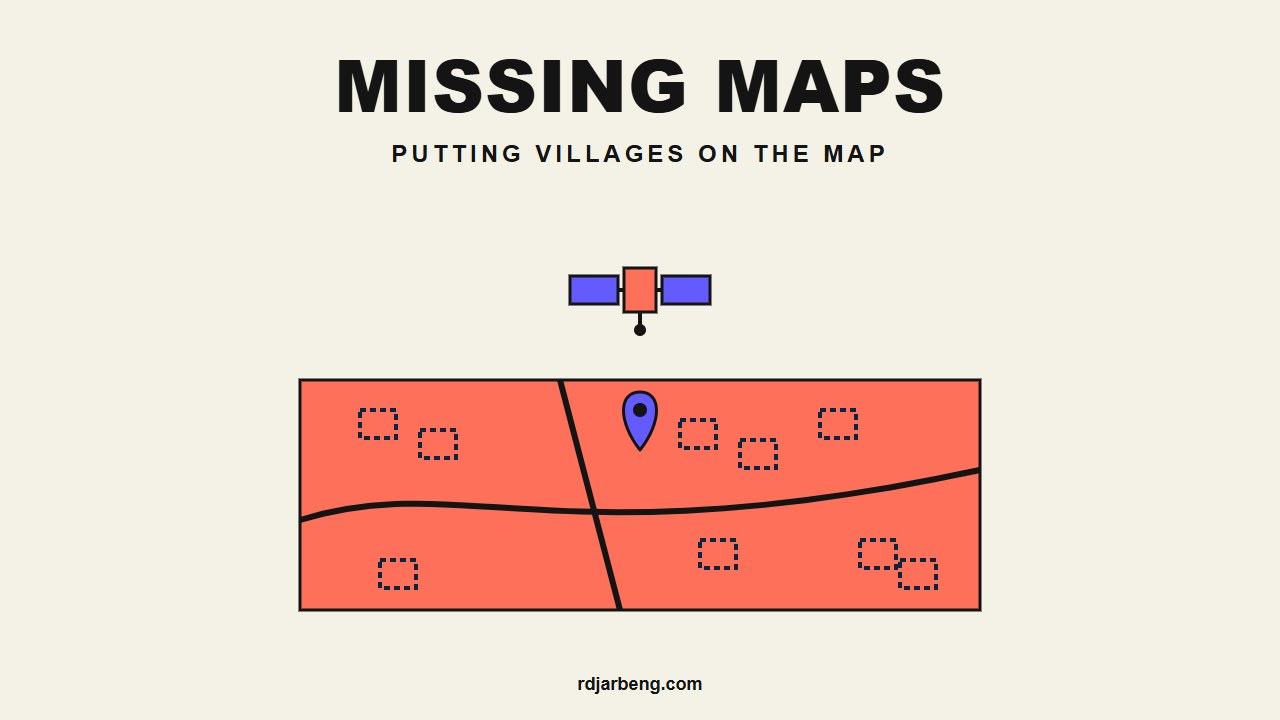
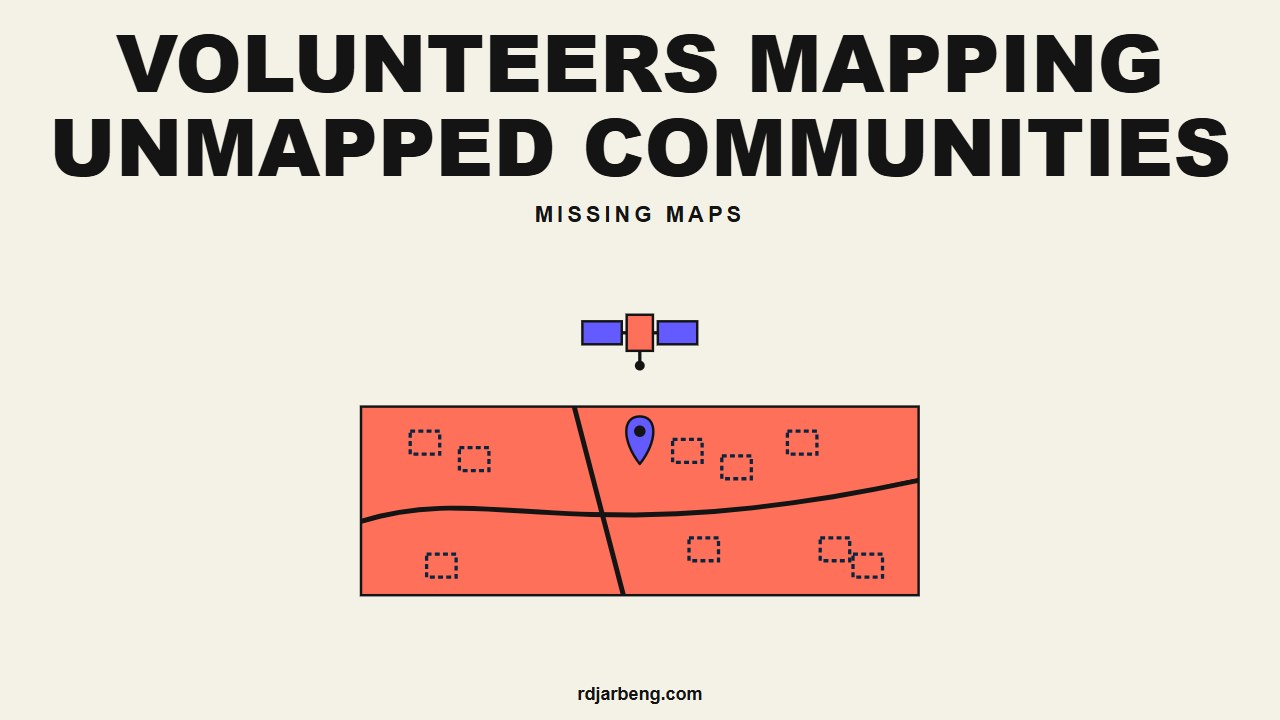
Organisation draft covers: plain-language headlines per the cover workflow

diff --git a/scripts/diagrams/covers/eo_org_covers.py b/scripts/diagrams/covers/eo_org_covers.py
@@ -131,47 +131,55 @@ def art_smos():
 
 # name -> (headline, hook, illustration, alt text, post file stem)
 COVERS = {
-    "digital_earth_africa": ("DIGITAL EARTH AFRICA", "FREE SATELLITE DATA FOR THE CONTINENT", art_dea,
-                             "A satellite above a grid of map tiles in green and sand with a dark band of water, under the headline Digital Earth Africa",
+    "digital_earth_africa": ("FREE SATELLITE DATA FOR AFRICA", "DIGITAL EARTH AFRICA", art_dea,
+                             "A satellite above a grid of map tiles in green and sand with a dark band of water, under the headline 'Free satellite data for africa' and the name Digital Earth Africa",
                              "2026-11-27-digital-earth-africa-free-satellite-data-for-africa"),
-    "global_forest_watch": ("GLOBAL FOREST WATCH", "TRACKING TREE LOSS FROM SPACE", art_gfw,
-                            "A satellite above a row of trees with a cleared gap of stumps marked by alert pins, under the headline Global Forest Watch",
+    "global_forest_watch": ("SPOTTING FOREST LOSS FROM SPACE", "GLOBAL FOREST WATCH", art_gfw,
+                            "A satellite above a row of trees with a cleared gap of stumps marked by alert pins, under the headline 'Spotting forest loss from space' and the name Global Forest Watch",
                             "2026-11-27-global-forest-watch-tracking-tree-loss-from-space"),
-    "global_urban_footprint": ("GLOBAL URBAN FOOTPRINT", "MAPPING CITIES FROM SPACE", art_guf,
-                               "A satellite sending radar waves down to a skyline of city blocks, under the headline Global Urban Footprint",
+    "global_urban_footprint": ("MAPPING EVERY CITY FROM ORBIT", "DLR GLOBAL URBAN FOOTPRINT", art_guf,
+                               "A satellite sending radar waves down to a skyline of city blocks, under the headline 'Mapping every city from orbit' and the name Dlr Global Urban Footprint",
                                "2026-11-27-global-urban-footprint-mapping-cities-from-space"),
-    "missing_maps": ("MISSING MAPS", "PUTTING VILLAGES ON THE MAP", art_missing_maps,
-                     "A map with roads and dashed outlines of buildings being traced, a location pin and a satellite above, under the headline Missing Maps",
+    "missing_maps": ("VOLUNTEERS MAPPING UNMAPPED COMMUNITIES", "MISSING MAPS", art_missing_maps,
+                     "A map with roads and dashed outlines of buildings being traced, a location pin and a satellite above, under the headline 'Volunteers mapping unmapped communities' and the name Missing Maps",
                      "2026-11-27-missing-maps-volunteer-mapping-for-humanitarian-response"),
-    "nasa_arset": ("NASA ARSET", "FREE TRAINING IN SATELLITE DATA", art_arset,
-                   "A laptop showing a satellite map, a satellite beside it and a graduation cap, under the headline NASA ARSET",
+    "nasa_arset": ("LEARN TO USE SATELLITE DATA, FREE", "NASA ARSET TRAINING", art_arset,
+                   "A laptop showing a satellite map, a satellite beside it and a graduation cap, under the headline 'Learn to use satellite data, free' and the name Nasa Arset Training",
                    "2026-11-27-nasa-arset-free-remote-sensing-training"),
-    "nasa_black_marble": ("NASA BLACK MARBLE", "NIGHT LIGHTS FROM SPACE", art_black_marble,
-                          "A satellite above a dark landscape dotted with clusters of city lights, under the headline NASA Black Marble",
+    "nasa_black_marble": ("NIGHT LIGHTS REVEAL POWER CUTS", "NASA BLACK MARBLE", art_black_marble,
+                          "A satellite above a dark landscape dotted with clusters of city lights, under the headline 'Night lights reveal power cuts' and the name Nasa Black Marble",
                           "2026-11-27-nasa-black-marble-night-lights-from-space"),
-    "nasa_harvest": ("NASA HARVEST", "SATELLITES FOR FOOD SECURITY", art_harvest,
-                     "A satellite looking down on rows of crop fields, under the headline NASA Harvest",
+    "nasa_harvest": ("SATELLITES THAT WATCH CROPS GROW", "NASA HARVEST", art_harvest,
+                     "A satellite looking down on rows of crop fields, under the headline 'Satellites that watch crops grow' and the name Nasa Harvest",
                      "2026-11-27-nasa-harvest-satellite-data-for-food-security"),
-    "servir": ("SERVIR", "SATELLITE DATA FOR DEVELOPMENT", art_servir,
-               "A satellite linked to a rain cloud falling on a row of fields, under the headline SERVIR",
+    "servir": ("SATELLITE DATA FOR DROUGHTS AND FLOODS", "SERVIR", art_servir,
+               "A satellite linked to a rain cloud falling on a row of fields, under the headline 'Satellite data for droughts and floods' and the name Servir",
                "2026-11-27-servir-satellite-data-for-development"),
-    "smos": ("SMOS", "MEASURING SOIL MOISTURE FROM SPACE", art_smos,
-             "A satellite above a cross-section of soil layers holding water drops, with seedlings on top, under the headline SMOS",
+    "smos": ("MEASURING SOIL WATER FROM SPACE", "ESA SMOS MISSION", art_smos,
+             "A satellite above a cross-section of soil layers holding water drops, with seedlings on top, under the headline 'Measuring soil water from space' and the name Esa Smos Mission",
              "2026-11-27-smos-measuring-soil-moisture-from-space"),
 }
 
 
 def cover(headline, hook, art):
-    size = min(72, int(1180 / (0.74 * len(headline))))
+    # Headline in two balanced lines so it stays at least 64px (workflow rule); the hook is the
+    # organisation's name in smaller type below it.
+    words = headline.split()
+    best = min(range(1, len(words)), key=lambda i: abs(len(" ".join(words[:i])) - len(" ".join(words[i:])))) if len(words) > 1 else 1
+    lines = [" ".join(words[:best]), " ".join(words[best:])] if len(words) > 1 else [headline]
+    size = max(64, min(80, int(1180 / (0.72 * max(len(l) for l in lines)))))
+    y1 = 92 if len(lines) == 2 else 112
+    tspans = "".join(f'<tspan x="640" dy="{0 if i == 0 else size + 4}">{l}</tspan>' for i, l in enumerate(lines))
+    hook_y = y1 + (size + 4) * (len(lines) - 1) + 46
     return f'''<svg xmlns="http://www.w3.org/2000/svg" viewBox="0 0 1280 720" width="1280" height="720">
   <!-- Generated by scripts/diagrams/covers/eo_org_covers.py. Palette per cover (COVER_PALETTE); all text #141414. -->
   <rect width="1280" height="720" fill="{PAPER}"/>
   <g fill="{INK}" font-family="'Arial Black', 'Helvetica Neue', Impact, sans-serif" text-anchor="middle">
-    <text x="640" y="112" font-size="{size}" font-weight="900" letter-spacing="1">{headline}</text>
-    <text x="640" y="162" font-size="24" font-weight="700" letter-spacing="4" font-family="Arial, Helvetica, sans-serif">{hook}</text>
+    <text x="640" y="{y1}" font-size="{size}" font-weight="900">{tspans}</text>
+    <text x="640" y="{hook_y}" font-size="22" font-weight="700" letter-spacing="4" font-family="Arial, Helvetica, sans-serif">{hook}</text>
   </g>
-  {art()}
-  <text x="640" y="690" font-family="Arial, Helvetica, sans-serif" font-size="18" font-weight="600" fill="{INK}" text-anchor="middle">rdjarbeng.com</text>
+  <g transform="translate(115 95) scale(0.82)">{art()}</g>
+  <text x="640" y="700" font-family="Arial, Helvetica, sans-serif" font-size="18" font-weight="600" fill="{INK}" text-anchor="middle">rdjarbeng.com</text>
 </svg>
 '''
 

diff --git a/_posts/2026-11-27-global-forest-watch-tracking-tree-loss-from-space.md b/_posts/2026-11-27-global-forest-watch-tracking-tree-loss-from-space.md
@@ -12,7 +12,7 @@ key_points:
   - "Community groups in Cameroon used near real time alerts to track clearing in the Mengamé Gorilla Sanctuary."
   - "In Kenya, the Mara Elephant Project uses GLAD deforestation alerts and fire alerts to watch forests around the Maasai Mara."
 image: /assets/images/posts/covers/global_forest_watch_cover.jpg
-image_alt: "A satellite above a row of trees with a cleared gap of stumps marked by alert pins, under the headline Global Forest Watch"
+image_alt: "A satellite above a row of trees with a cleared gap of stumps marked by alert pins, under the headline 'Spotting forest loss from space' and the name Global Forest Watch"
 content_type: explainer
 ai_assistance:
   - drafting
@@ -21,7 +21,7 @@ layout: post
 
 If you want to know whether forest near you is being cleared, you need information that is up to date. [Global Forest Watch](https://www.globalforestwatch.org/) puts satellite images and forest alerts online, so anyone can see where clearing is happening. Alerts are warnings that appear when satellite images show a possible change, such as trees being removed.
 
-![A satellite above a row of trees with a cleared gap of stumps marked by alert pins, under the headline Global Forest Watch](/assets/images/posts/covers/global_forest_watch_cover.jpg)
+![A satellite above a row of trees with a cleared gap of stumps marked by alert pins, under the headline 'Spotting forest loss from space' and the name Global Forest Watch](/assets/images/posts/covers/global_forest_watch_cover.jpg)
 
 The [World Resources Institute](https://www.globalforestwatch.org/about/) established the service in 1997 and launched its interactive online platform in 2014. The service was [renamed Global Nature Watch in 2026](https://www.globalnaturewatch.org/blog/data-and-tools/gfw-now-global-nature-watch/). According to the renaming announcement, nothing changes for users except the name. Saved areas, subscriptions, alerts and saved links keep working.
 

diff --git a/_posts/2026-11-27-nasa-arset-free-remote-sensing-training.md b/_posts/2026-11-27-nasa-arset-free-remote-sensing-training.md
@@ -12,7 +12,7 @@ key_points:
   - "Online trainings have no fee, and past slides, Q&A transcripts and homework are posted for review."
   - "A 2024 Cape Town workshop and a Ghanaian student's planned water quality study show how the training is used in Africa."
 image: /assets/images/posts/covers/nasa_arset_cover.jpg
-image_alt: "A laptop showing a satellite map, a satellite beside it and a graduation cap, under the headline NASA ARSET"
+image_alt: "A laptop showing a satellite map, a satellite beside it and a graduation cap, under the headline 'Learn to use satellite data, free' and the name Nasa Arset Training"
 content_type: explainer
 ai_assistance:
   - drafting
@@ -21,7 +21,7 @@ layout: post
 
 Free satellite data only helps if you know how to read it. Turning images of a flood, a dry farm or a growing town into information takes training. [NASA's Applied Remote Sensing Training Program](https://www.earthdata.nasa.gov/data/projects/arset), known as ARSET, teaches these skills. Its online trainings have no course fee.
 
-![A laptop showing a satellite map, a satellite beside it and a graduation cap, under the headline NASA ARSET](/assets/images/posts/covers/nasa_arset_cover.jpg)
+![A laptop showing a satellite map, a satellite beside it and a graduation cap, under the headline 'Learn to use satellite data, free' and the name Nasa Arset Training](/assets/images/posts/covers/nasa_arset_cover.jpg)
 
 [Remote sensing](https://www.earthdata.nasa.gov/learn/trainings/fundamentals-remote-sensing) is the science of measuring Earth from satellites and other sensors. A sensor is an instrument that measures light or other energy. ARSET says its trainings build skills for air quality, public health, agriculture, disasters, ecological conservation, water resource management, climate resilience and wildland fires. Its [training list](https://www.earthdata.nasa.gov/data/projects/arset/learn) can be filtered by topic, training level, training type and language.
 

diff --git a/_posts/2026-11-27-nasa-harvest-satellite-data-for-food-security.md b/_posts/2026-11-27-nasa-harvest-satellite-data-for-food-security.md
@@ -12,7 +12,7 @@ key_points:
   - "In Kenya, the ADAPT-Kenya project is building a government data system that produces in-season agricultural data products."
   - "ADAPT-Kenya plans early warning systems for droughts, floods and other natural disasters."
 image: /assets/images/posts/covers/nasa_harvest_cover.jpg
-image_alt: "A satellite looking down on rows of crop fields, under the headline NASA Harvest"
+image_alt: "A satellite looking down on rows of crop fields, under the headline 'Satellites that watch crops grow' and the name Nasa Harvest"
 content_type: explainer
 ai_assistance:
   - drafting
@@ -21,7 +21,7 @@ layout: post
 
 When crops fail, governments and aid groups need to know quickly, while there is still time to act. [NASA Harvest](https://www.nasaharvest.org/) is NASA's global food supply and agriculture consortium, meaning a group of organisations working together. It was [commissioned by NASA in 2017](https://www.nasaharvest.org/about-us). It brings together agriculture experts and remote sensing experts, meaning people who measure the land from satellites. They work with farmers, agribusinesses, economists, humanitarian organisations, governments and technology developers. Its management hub is at the University of Maryland's [Department of Geographical Sciences](https://www.nasaharvest.org/about-us).
 
-![A satellite looking down on rows of crop fields, under the headline NASA Harvest](/assets/images/posts/covers/nasa_harvest_cover.jpg)
+![A satellite looking down on rows of crop fields, under the headline 'Satellites that watch crops grow' and the name Nasa Harvest](/assets/images/posts/covers/nasa_harvest_cover.jpg)
 
 Its [stated mission](https://www.nasaharvest.org/about-us) is to advance the adoption of satellite Earth observations by public and private organisations. The aim is to benefit food supply, agricultural production, market stability and human resilience.
 

diff --git a/_posts/2026-11-27-smos-measuring-soil-moisture-from-space.md b/_posts/2026-11-27-smos-measuring-soil-moisture-from-space.md
@@ -12,7 +12,7 @@ key_points:
   - "In 2011, SMOS maps of the Horn of Africa showed little or no moisture in surface soil in some key farming areas of Somalia."
   - "SMOS data are free and open, but an EO Sign In account is needed to download them."
 image: /assets/images/posts/covers/smos_cover.jpg
-image_alt: "A satellite above a cross-section of soil layers holding water drops, with seedlings on top, under the headline SMOS"
+image_alt: "A satellite above a cross-section of soil layers holding water drops, with seedlings on top, under the headline 'Measuring soil water from space' and the name Esa Smos Mission"
 content_type: explainer
 ai_assistance:
   - drafting
@@ -21,7 +21,7 @@ layout: post
 
 Knowing how wet the soil is can warn of drought before crops suffer. Before SMOS was launched in 2009, there were [relatively few global datasets](https://www.esa.int/articles/about-us/directorates/earth-observation-programmes/futureeo/smos/mapping-moisture) on soil moisture or ocean salinity. Soil moisture is the water held in the top layer of soil. Ocean salinity is the salt content of seawater. [SMOS](https://www.esa.int/missions/about-us/directorates/earth-observation-programmes/futureeo/smos) is the European Space Agency's Soil Moisture and Ocean Salinity mission. It is one of ESA's [Earth Explorer](https://www.esa.int/articles/about-us/directorates/earth-observation-programmes/futureeo/smos/introducing-smos) missions.
 
-![A satellite above a cross-section of soil layers holding water drops, with seedlings on top, under the headline SMOS](/assets/images/posts/covers/smos_cover.jpg)
+![A satellite above a cross-section of soil layers holding water drops, with seedlings on top, under the headline 'Measuring soil water from space' and the name Esa Smos Mission](/assets/images/posts/covers/smos_cover.jpg)
 
 ## What SMOS provides
 

diff --git a/_posts/2026-11-27-nasa-black-marble-night-lights-from-space.md b/_posts/2026-11-27-nasa-black-marble-night-lights-from-space.md
@@ -12,7 +12,7 @@ key_points:
   - "The data are free under NASA's open science policy. Worldview and Earthdata Search are NASA's tools for viewing and downloading them."
   - "NASA documents uses such as population along the Nile, power outages after Hurricane Melissa in Jamaica, and gas flares and illegal fishing."
 image: /assets/images/posts/covers/nasa_black_marble_cover.jpg
-image_alt: "A satellite above a dark landscape dotted with clusters of city lights, under the headline NASA Black Marble"
+image_alt: "A satellite above a dark landscape dotted with clusters of city lights, under the headline 'Night lights reveal power cuts' and the name Nasa Black Marble"
 content_type: explainer
 ai_assistance:
   - drafting
@@ -21,7 +21,7 @@ layout: post
 
 Satellites can see where lights are on at night. That tells you where people live and whether the power is working. [NASA's Black Marble](https://www.earthdata.nasa.gov/data/projects/black-marble) is a suite of related data products. It turns satellite images of artificial light into a daily, monthly and yearly record of human activity. Its lead scientist, or principal investigator, is Zhuosen Wang of the University of Maryland and NASA Goddard Space Flight Center. The Suomi NPP data are distributed through NASA's LAADS DAAC, an archive for these data, and the same project page lists the data access tools.
 
-![A satellite above a dark landscape dotted with clusters of city lights, under the headline NASA Black Marble](/assets/images/posts/covers/nasa_black_marble_cover.jpg)
+![A satellite above a dark landscape dotted with clusters of city lights, under the headline 'Night lights reveal power cuts' and the name Nasa Black Marble](/assets/images/posts/covers/nasa_black_marble_cover.jpg)
 
 ## What the products contain
 

diff --git a/_posts/2026-11-27-missing-maps-volunteer-mapping-for-humanitarian-response.md b/_posts/2026-11-27-missing-maps-volunteer-mapping-for-humanitarian-response.md
@@ -12,7 +12,7 @@ key_points:
   - "During the 2026 Ebola outbreak in Ituri Province, DR Congo, mappers updated village locations and buildings for the response."
   - "Anyone can start for free with MapSwipe or the HOT Tasking Manager, and mapathons provide training."
 image: /assets/images/posts/covers/missing_maps_cover.jpg
-image_alt: "A map with roads and dashed outlines of buildings being traced, a location pin and a satellite above, under the headline Missing Maps"
+image_alt: "A map with roads and dashed outlines of buildings being traced, a location pin and a satellite above, under the headline 'Volunteers mapping unmapped communities' and the name Missing Maps"
 content_type: explainer
 ai_assistance:
   - drafting
@@ -21,7 +21,7 @@ layout: post
 
 Aid teams need to find villages, roads and buildings on a map before they can reach people in a crisis. [Missing Maps](https://www.missingmaps.org/) is an open, collaborative project in which volunteers map areas where humanitarian organisations work with people at risk of disasters and crises. It is a [collective of organisations](https://www.missingmaps.org/about/), and the Humanitarian OpenStreetMap Team (HOT) is one of its founders. Anyone can take part.
 
-![A map with roads and dashed outlines of buildings being traced, a location pin and a satellite above, under the headline Missing Maps](/assets/images/posts/covers/missing_maps_cover.jpg)
+![A map with roads and dashed outlines of buildings being traced, a location pin and a satellite above, under the headline 'Volunteers mapping unmapped communities' and the name Missing Maps](/assets/images/posts/covers/missing_maps_cover.jpg)
 
 ## What Missing Maps provides
 

diff --git a/_posts/2026-11-27-digital-earth-africa-free-satellite-data-for-africa.md b/_posts/2026-11-27-digital-earth-africa-free-satellite-data-for-africa.md
@@ -12,7 +12,7 @@ key_points:
   - "The programme is run by the International Centre of Insect Physiology and Ecology (icipe)."
   - "Free online training is available in both English and French, including weekly live sessions."
 image: /assets/images/posts/covers/digital_earth_africa_cover.jpg
-image_alt: "A satellite above a grid of map tiles in green and sand with a dark band of water, under the headline Digital Earth Africa"
+image_alt: "A satellite above a grid of map tiles in green and sand with a dark band of water, under the headline 'Free satellite data for africa' and the name Digital Earth Africa"
 content_type: explainer
 ai_assistance:
   - drafting
@@ -21,7 +21,7 @@ layout: post
 
 If you plan for floods, droughts or food supplies in Africa, you need reliable information about land and water. [Digital Earth Africa](https://digitalearthafrica.org/en_za/) (DE Africa) provides free and open satellite data for the whole continent. The programme is run by the [International Centre of Insect Physiology and Ecology](https://digitalearthafrica.org/en_za/about-digital-earth-africa/) (icipe).
 
-![A satellite above a grid of map tiles in green and sand with a dark band of water, under the headline Digital Earth Africa](/assets/images/posts/covers/digital_earth_africa_cover.jpg)
+![A satellite above a grid of map tiles in green and sand with a dark band of water, under the headline 'Free satellite data for africa' and the name Digital Earth Africa](/assets/images/posts/covers/digital_earth_africa_cover.jpg)
 
 ## What the programme provides
 

diff --git a/_posts/2026-11-27-global-urban-footprint-mapping-cities-from-space.md b/_posts/2026-11-27-global-urban-footprint-mapping-cities-from-space.md
@@ -12,7 +12,7 @@ key_points:
   - "DLR later built the World Settlement Footprint from free Landsat and Sentinel data, at 10 metre resolution."
   - "The Global Urban Footprint data are free for scientific and non-commercial use through an email request to DLR."
 image: /assets/images/posts/covers/global_urban_footprint_cover.jpg
-image_alt: "A satellite sending radar waves down to a skyline of city blocks, under the headline Global Urban Footprint"
+image_alt: "A satellite sending radar waves down to a skyline of city blocks, under the headline 'Mapping every city from orbit' and the name Dlr Global Urban Footprint"
 content_type: explainer
 ai_assistance:
   - drafting
@@ -21,7 +21,7 @@ layout: post
 
 A free worldwide map can show where towns and cities sit and how much land they cover. The Global Urban Footprint (GUF) is one such map. [DLR](https://www.dlr.de/en/eoc), the German Aerospace Center, created it through its Earth Observation Center. The centre includes the [German Remote Sensing Data Center](https://www.dlr.de/en/eoc/about-us/german-remote-sensing-data-center).
 
-![A satellite sending radar waves down to a skyline of city blocks, under the headline Global Urban Footprint](/assets/images/posts/covers/global_urban_footprint_cover.jpg)
+![A satellite sending radar waves down to a skyline of city blocks, under the headline 'Mapping every city from orbit' and the name Dlr Global Urban Footprint](/assets/images/posts/covers/global_urban_footprint_cover.jpg)
 
 ## What the Global Urban Footprint provides
 

diff --git a/_posts/2026-11-27-servir-satellite-data-for-development.md b/_posts/2026-11-27-servir-satellite-data-for-development.md
@@ -12,7 +12,7 @@ key_points:
   - "Official examples include rainfall outlooks used by Kenya Meteorological Service offices and charcoal production monitoring in Ghana."
   - "The ClimateSERV map and the SERVIR App Center are public pages."
 image: /assets/images/posts/covers/servir_cover.jpg
-image_alt: "A satellite linked to a rain cloud falling on a row of fields, under the headline SERVIR"
+image_alt: "A satellite linked to a rain cloud falling on a row of fields, under the headline 'Satellite data for droughts and floods' and the name Servir"
 content_type: explainer
 ai_assistance:
   - drafting
@@ -21,7 +21,7 @@ layout: post
 
 In many regions that SERVIR works in, long-term ground rainfall records are limited. [ClimateSERV's about page](https://climateserv.servirglobal.net/about) says satellite and model rainfall data are then critical for predicting droughts and estimating crop conditions. [SERVIR](https://www.servirglobal.net/about/) turns Earth observation data into services for climate adaptation, disaster resilience, food security and water management. Earth observation data is information collected about the planet, often by satellites.
 
-![A satellite linked to a rain cloud falling on a row of fields, under the headline SERVIR](/assets/images/posts/covers/servir_cover.jpg)
+![A satellite linked to a rain cloud falling on a row of fields, under the headline 'Satellite data for droughts and floods' and the name Servir](/assets/images/posts/covers/servir_cover.jpg)
 
 ## History and current status
 
